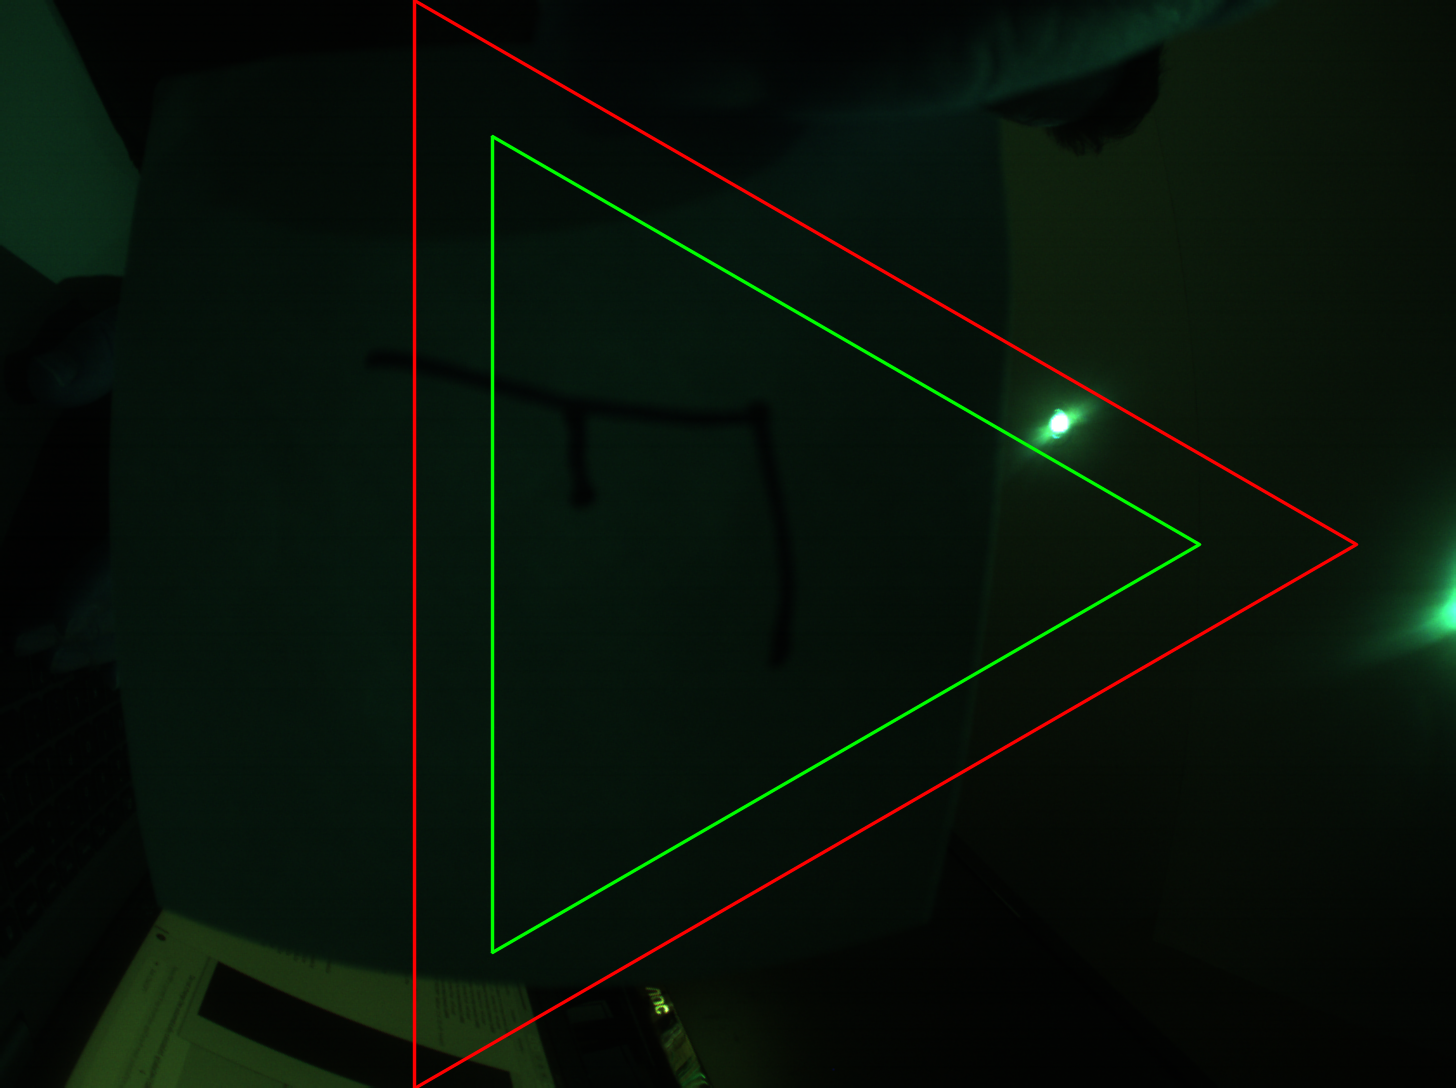
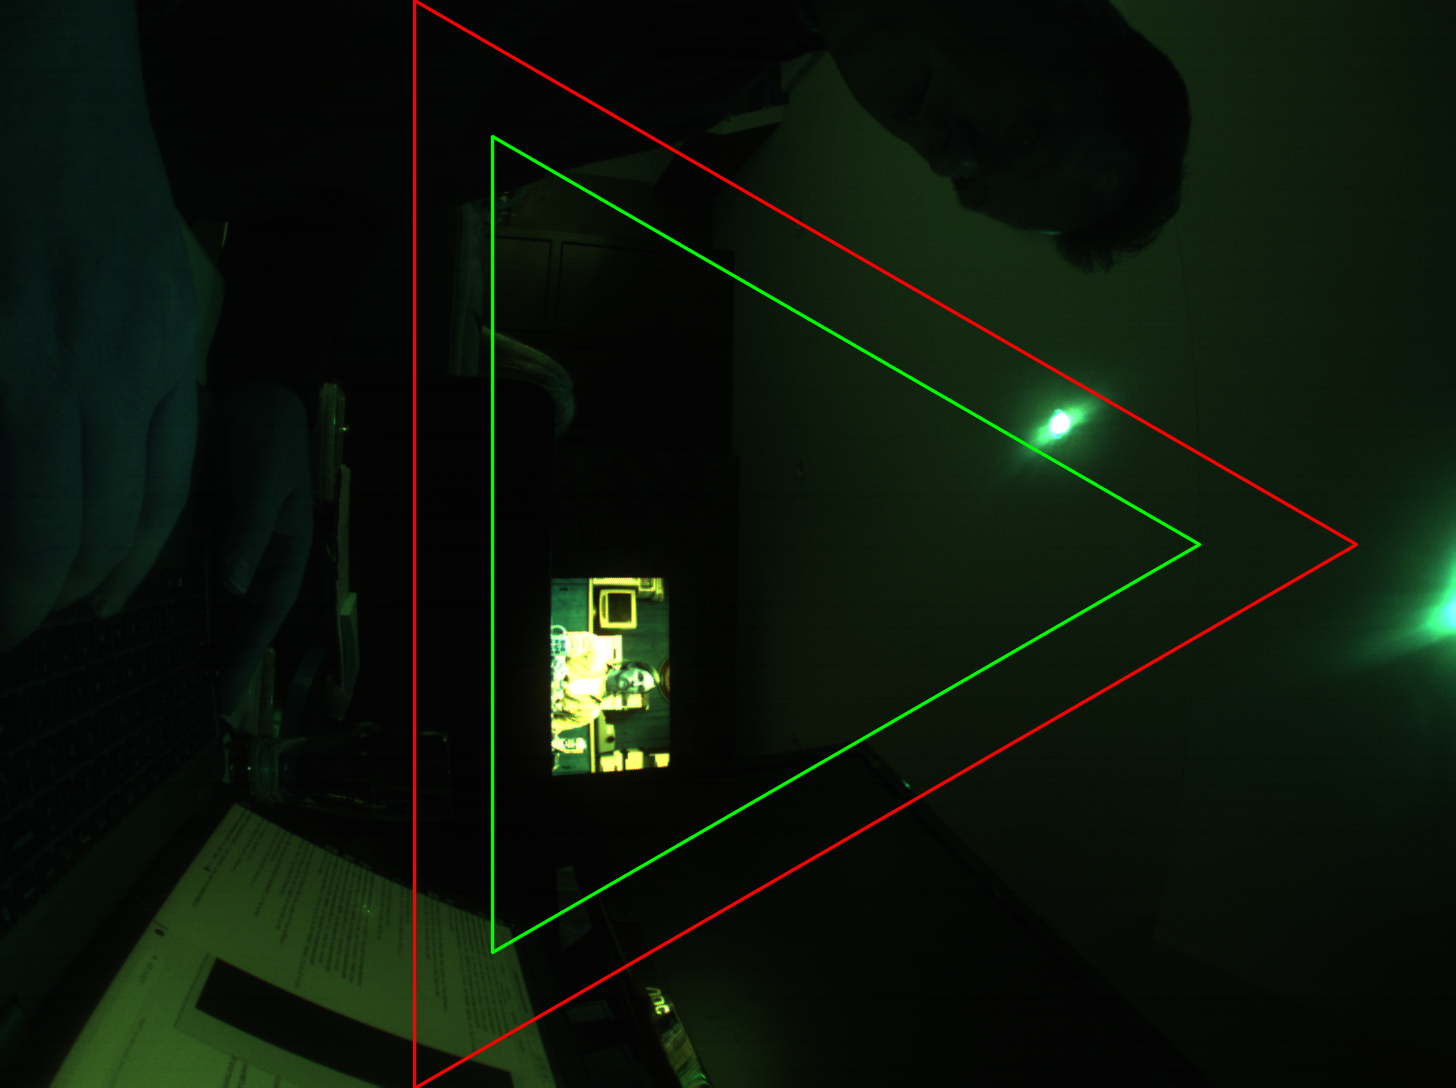
Mapping 4 cameras

diff --git a/software/src/common/topology/shapefunction/include/DASPi-module-spherical-basis.h b/software/src/common/topology/shapefunction/include/DASPi-module-spherical-basis.h
@@ -299,7 +299,7 @@ inline constexpr double CameraLocalRollDegForModule()
     if constexpr (ModuleIndex == 0) {
         return -60.0;
     } else if constexpr (ModuleIndex == 1) {
-        return 0.0;
+        return -60.0;
     } else if constexpr (ModuleIndex == 2) {
         return 0.0;
     } else {

diff --git a/software/src/computemodule/src/main.cpp b/software/src/computemodule/src/main.cpp
@@ -2104,7 +2104,7 @@ double CameraLocalRollDegForModule(int module)
 {
     switch (module) {
     case 0: return -60.0;
-    case 1: return 0.0;
+    case 1: return -60.0;
     case 2: return 0.0;
     case 3: return 0.0;
     default: return 0.0;
